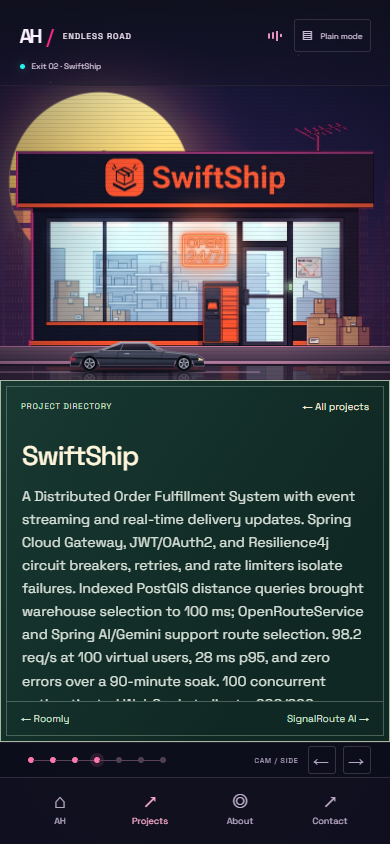
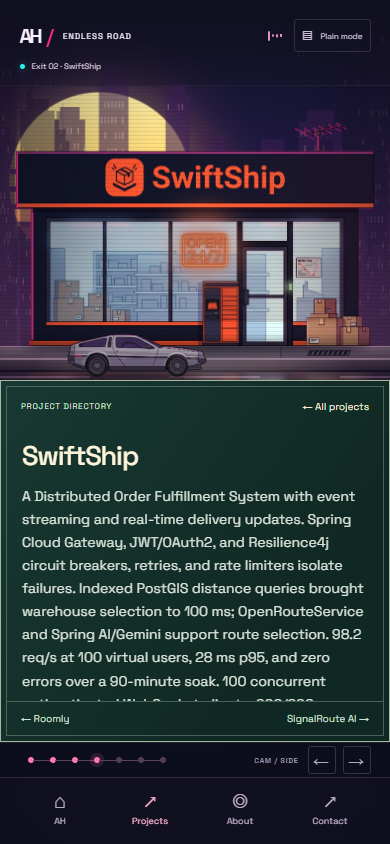
Verify polished scenes across desktop and mobile and document quality controls

diff --git a/tests/polish.spec.ts b/tests/polish.spec.ts
@@ -1,0 +1,32 @@
+import { test, expect } from '@playwright/test';
+for (const width of [1440,390]) test(`skyline depths and home ${width}`,async({page})=>{
+  await page.setViewportSize({width,height:width===390?844:900});
+  const errors:string[]=[];
+  page.on('pageerror',e=>errors.push(e.message));
+  page.on('console',m=>{if(m.type()==='error') errors.push(m.text());});
+  await page.goto('/#home');
+  await page.getByRole('button',{name:'PRESS TO IGNITE'}).click();
+  await expect(page.locator('.gate')).toHaveCount(0);
+  await expect(page.locator('.rear-scene .city-far')).toBeVisible();
+  await expect(page.locator('.rear-scene .city-mid')).toBeVisible();
+  await expect(page.locator('.rear-scene .city-near')).toBeVisible();
+  await page.evaluate(()=>document.fonts.ready);
+  await page.screenshot({path:`screenshots/home-${width}x${width===390?844:900}.png`});
+  await page.goto('/#swiftship');
+  await expect(page.locator('[data-stop="swiftship"]')).toHaveAttribute('data-arrived','true');
+  await expect(page.locator('.stop-curb')).toHaveCSS('height','14px');
+  await expect(page.locator('.interior-grade')).toBeVisible();
+  const bloom=page.locator('.building-bloom');
+  if(width===390) { await expect(bloom).toBeHidden(); await expect(page.locator('.reflection-parallax')).toHaveCSS('filter','none'); }
+  else {
+    await expect(bloom).toBeVisible();
+    await page.mouse.move(1430,450);
+    await expect.poll(()=>page.locator('.building-parallax').evaluate(el=>new DOMMatrix(getComputedStyle(el).transform).m41)).toBeGreaterThan(6);
+    await page.emulateMedia({reducedMotion:'reduce'});
+    await expect(page.locator('.plain-content')).toBeVisible();
+    await page.getByRole('button',{name:'Drive mode',exact:true}).click();
+    await expect(page.locator('.reflection-parallax')).toHaveCSS('filter','none');
+    await expect(page.locator('.building-parallax')).toHaveCSS('transform','none');
+  }
+  expect(errors).toEqual([]);
+});

diff --git a/tests/stops.spec.ts b/tests/stops.spec.ts
@@ -31,7 +31,7 @@ for (const viewport of [{width:1440,height:900}, {width:390,height:844}]) {
       expect(Math.abs(layout.car.top + layout.car.height * 195 / 235 - layout.lane.top)).toBeLessThan(2);
       if (viewport.width >= 768) expect(layout.building.right + 8).toBeLessThanOrEqual(layout.card.left);
       else { expect(layout.building.bottom).toBeLessThan(layout.card.top); expect(layout.car.top + layout.car.height * 195 / 235).toBeLessThan(layout.card.top); }
-      await expect(page.locator('.scene-frame[data-active="true"] .building-reflection')).toHaveCSS('opacity', '0.22');
+      await expect(page.locator('.scene-frame[data-active="true"] .building-reflection')).toHaveCSS('opacity', '0.3');
       if (id !== 'signalroute') {
       const door = page.getByRole('link', {name: `Open live project: ${id === 'roomly' ? 'Roomly' : 'SwiftShip'}`});
       const live = id === 'roomly' ? 'https://roomly-xi.vercel.app' : 'https://swift-ship-nu.vercel.app';

diff --git a/README.md b/README.md
@@ -122,3 +122,11 @@ Supply:
 Accepted car originals live in `assets-src/cars/`. Run `node scripts/key-cars.mjs` to chroma-key, despill, trim, and export transparent WebP assets into `public/assets/cars/`. The side source is the clean wheel-less body supplied on November 5; separate tyres rotate during arrival and stop when parked. All project stops share `SideCar.tsx`, including their reflections. Home and contact share the rear sprite through `Car.tsx`. Reduced-motion preferences disable tyre rotation.
 
 The top-view asset is prepared but currently unused. The earlier overlapping side-reference images and the front three-quarter image are not used by the runtime.
+
+### Stop lighting and skyline polish
+
+The three city depths are generated in `src/components/scene/Skyline.tsx`; `mid-skyline` also supports an optional layer-art replacement. Stop sidewalks, occlusion, accent grading, light pools and reflections are shared in `src/stops.css`. SwiftShip's window grade uses the existing interior overlay rectangle in `src/data/stops.ts` (`?debug=rects`).
+
+`SCENE_QUALITY` in `src/config.ts` controls bloom and reflection ripple. Bloom and ripple are disabled on mobile; reduced motion disables ripple and pointer parallax. `useStopPolish` cleans up its GSAP tweens and pointer listeners on unmount and when preferences change. Reflection displacement is horizontal only.
+
+Verification: `npm run build`; `npx playwright test tests/stops.spec.ts tests/polish.spec.ts`. These cover the home and three stop screenshots at 1440x900 and 390x844, sidewalk alignment, card clearance, console errors, scene cleanup, parallax and reduced-motion fallbacks. Updated previews are in `screenshots/`.
